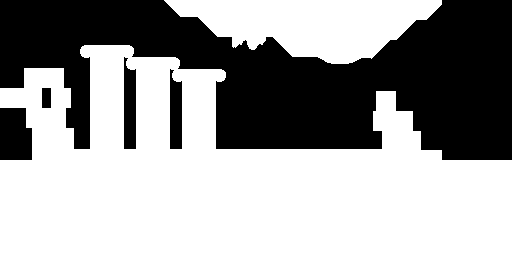
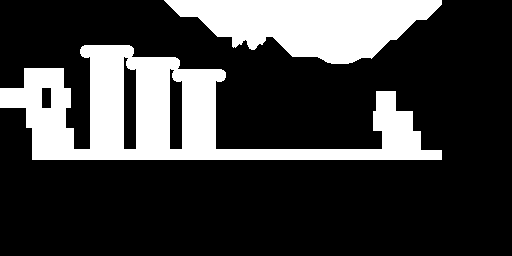
Surrender! + explosion + more things
More things:
- First door reworked to match level style.
- The 1st and 2nd levels now have air in the bottom to not let diggers dig until bottom of mask.
- Added bottom quad to not let lemmings invade the UI.

diff --git a/Lemmings/02-Lemming/Lemming.cpp b/Lemmings/02-Lemming/Lemming.cpp
@@ -18,7 +18,7 @@ void Lemming::init(const glm::vec2 &initialPosition, ShaderProgram &shaderProgra
 	pending_state = NULL_STATE;
 	pending_floater = false;
 	sprite = Sprite::createSprite(glm::ivec2(16, 16), glm::vec2(0.1, 16.0f / SPRITE_HEIGHT), lemmingTexture, &shaderProgram);
-	sprite->setNumberAnimations(12);
+	sprite->setNumberAnimations(14);
 	
 		sprite->setAnimationSpeed(LemmingAnims::WALKING_RIGHT, 12);
 		for(int i=0; i<8; i++)
@@ -71,6 +71,16 @@ void Lemming::init(const glm::vec2 &initialPosition, ShaderProgram &shaderProgra
 		sprite->setAnimationSpeed(LemmingAnims::SAFE, 12);
 		for (int i = 0; i<8; i++)
 			sprite->addKeyframe(LemmingAnims::SAFE, glm::vec2(float(i) / 10, 160.0f / SPRITE_HEIGHT));
+
+		sprite->setAnimationSpeed(LemmingAnims::SURRENDER, 12);
+		for (int i = 0; i<8; i++)
+			sprite->addKeyframe(LemmingAnims::SURRENDER, glm::vec2(float(i) / 10, 176.0f / SPRITE_HEIGHT));
+		for (int i = 0; i<8; i++)
+			sprite->addKeyframe(LemmingAnims::SURRENDER, glm::vec2(float(i) / 10, 192.0f / SPRITE_HEIGHT));
+
+		sprite->setAnimationSpeed(LemmingAnims::EXPLOSION, 12);
+		for (int i = 0; i<8; i++)
+			sprite->addKeyframe(LemmingAnims::EXPLOSION, glm::vec2(float(i) / 10, 112.0f / SPRITE_HEIGHT));
 
 
 		
@@ -135,7 +145,12 @@ void Lemming::update(int deltaTime, int offset, vector<glm::vec2> newColliders)
 		break;
 
 	case WALKING_LEFT_STATE:
-		if (pending_state == DIGGER_LEFT_STATE) {
+		if (pending_state == SURRENDER_STATE) {
+			sprite->changeAnimation(LemmingAnims::SURRENDER);
+			state = pending_state;
+			pending_state = NULL_STATE;
+		}
+		else if (pending_state == DIGGER_LEFT_STATE) {
 			sprite->changeAnimation(LemmingAnims::DIGGING);
 			state = pending_state;
 			pending_state = NULL_STATE;
@@ -153,7 +168,12 @@ void Lemming::update(int deltaTime, int offset, vector<glm::vec2> newColliders)
 		break;
 
 	case WALKING_RIGHT_STATE:
-		if (pending_state == DIGGER_RIGHT_STATE) {
+		if (pending_state == SURRENDER_STATE) {
+			sprite->changeAnimation(LemmingAnims::SURRENDER);
+			state = pending_state;
+			pending_state = NULL_STATE;
+		}
+		else if (pending_state == DIGGER_RIGHT_STATE) {
 			sprite->changeAnimation(LemmingAnims::DIGGING);
 			state = pending_state;
 			pending_state = NULL_STATE;
@@ -169,7 +189,18 @@ void Lemming::update(int deltaTime, int offset, vector<glm::vec2> newColliders)
 			else _walk(LemmingAnims::FALLING_RIGHT, LemmingState::FALLING_RIGHT_STATE);
 		}
 		break;
-
+	case SURRENDER_STATE:
+		if (sprite->keyFrame() == 15) {
+			sprite->changeAnimation(LemmingAnims::EXPLOSION);
+			_explote();
+			state = EXPLOSION_STATE;
+		}
+		break;
+	case EXPLOSION_STATE:
+		if (sprite->keyFrame() == 7) {
+			state = DEAD_STATE;
+		}
+		break;
 	case FALL_DIE_STATE:
 		if (sprite->keyFrame() == 15) {
 			state = DEAD_STATE;
@@ -252,7 +283,7 @@ void Lemming::lemmingArrived()
 
 Lemming::LemmingState Lemming::getStateFromSkill(LemmingSkill skill) 
 {
-
+	if (skill == SURREND) return SURRENDER_STATE;
 	if (isGoingLeft()) {
 		if (skill == BLOCKER) return BLOCKER_LEFT_STATE;
 		if (skill == DIGGER) return DIGGER_LEFT_STATE;
@@ -358,6 +389,27 @@ void Lemming::_fall(LemmingAnims walkAnimation, LemmingState walkState)
 	}
 	else {
 		sprite->position() += glm::vec2(0, fall);
+	}
+}
+
+void Lemming::_explote()
+{
+	int posX, posY;
+
+	posX = sprite->position().x + lem_offset + 7;
+	posY = sprite->position().y + 12;
+	int r = 9;
+	int dx;
+	int dy;
+	for (int y = max(0, posY - r); y <= min(mask->height() - 1, posY + r); y++) {
+		for (int x = max(0, posX - r); x <= min(mask->width() - 1, posX + r); x++) {
+			dx = posX - x; // horizontal offset
+			dy = posY - y; // vertical offset
+			if ((dx*dx + dy * dy) <= (r*r))
+			{
+				mask->setPixel(x, y, 0);
+			}
+		}
 	}
 }
 

diff --git a/Lemmings/02-Lemming/Scene.cpp b/Lemmings/02-Lemming/Scene.cpp
@@ -38,8 +38,10 @@ void Scene::init()
 	maskTexture.setMinFilter(GL_NEAREST);
 	maskTexture.setMagFilter(GL_NEAREST);
 
+	maskTexture2 = &maskTexture;
 
 	quad = Quad::createQuad(-20.f, 0.f, 20.f, float(CAMERA_HEIGHT + 40), program);
+	quadui = Quad::createQuad(0.f, 0.f, float(CAMERA_WIDTH), 41.f, program);
 
 	projection = glm::ortho(-20.f, float(CAMERA_WIDTH + 20), float(CAMERA_HEIGHT + 40), 0.f);
 	currentTime = 0.0f;
@@ -73,7 +75,7 @@ void Scene::update(int deltaTime)
 	deltaTime = considerSceneSpeed(deltaTime);
 	currentTime += deltaTime;
 	Level level = levels[currentLevel];
-
+	cout << int(currentTime / 100) << endl;
 	updateColliders();
 
 	// Spawn lemmings
@@ -82,7 +84,10 @@ void Scene::update(int deltaTime)
 	// Update lemmings
 	for (int i = 0; i < spawnedLemmings; ++i) {
 		if (!lemmings[i]) continue;
-			
+		if (int(currentTime / 100) == 100) {
+			if (!lemmings[i]->setSkill(Lemming::LemmingSkill::SURREND))
+				continue; // TESTING
+		}
 		lemmings[i]->update(deltaTime, int(level.offset), colliders);
 		if (lemmings[i]->isDead()) removeLemming(i);
 		else if (lemmings[i]->isSafe()) {
@@ -109,6 +114,14 @@ void Scene::render()
 
 	glm::mat4 modelview;
 
+	simpleTexProgram.use();
+	simpleTexProgram.setUniformMatrix4f("projection", projection);
+	simpleTexProgram.setUniform4f("color", 1.0f, 1.0f, 1.0f, 1.0f);
+	modelview = glm::mat4(1.0f);
+	simpleTexProgram.setUniformMatrix4f("modelview", modelview);
+	spawnDoor->render();
+	door->render();
+
 	maskedTexProgram.use();
 	maskedTexProgram.setUniformMatrix4f("projection", projection);
 	maskedTexProgram.setUniform4f("color", 1.0f, 1.0f, 1.0f, 1.0f);
@@ -122,13 +135,23 @@ void Scene::render()
 	modelview = glm::mat4(1.0f);
 	simpleTexProgram.setUniformMatrix4f("modelview", modelview);
 
-	spawnDoor->render();
-	door->render();
-
 	for (int i = 0; i < spawnedLemmings; ++i) {
 		if (lemmings[i]) lemmings[i]->render();
 	}
 
+	program.use();
+	program.setUniformMatrix4f("projection", projection);
+	program.setUniform4f("color", 0.f, 0.f, 0.f, 1.0f);
+
+	modelview = glm::translate(glm::mat4(1.0f), glm::vec3(0.f, float(CAMERA_HEIGHT - 1), 0.f));
+	program.setUniformMatrix4f("modelview", modelview);
+	quadui->render();
+
+	simpleTexProgram.use();
+	simpleTexProgram.setUniformMatrix4f("projection", projection);
+	simpleTexProgram.setUniform4f("color", 1.0f, 1.0f, 1.0f, 1.0f);
+	modelview = glm::mat4(1.0f);
+	simpleTexProgram.setUniformMatrix4f("modelview", modelview);
 	cursor->render();
 
 	program.use();
@@ -203,30 +226,6 @@ void Scene::moveMap(bool right)
 		}
 	}
 }
-
-//
-/* ENS HO GUARDEM PER QUAN FEM LES EXPLOSIONS DELS LEMMINGS QUAN FEM SURRENDER*/
-//
-/*void Scene::eraseMask(int mouseX, int mouseY)
-{
-	int posX, posY;
-
-	posX = mouseX / 3 + 120;
-	posY = mouseY / 3;
-	int r = 10;
-	int dx;
-	int dy;
-	for (int y = max(0, posY - r); y <= min(maskTexture.height() - 1, posY + r); y++) {
-		for (int x = max(0, posX - r); x <= min(maskTexture.width() - 1, posX + r); x++) {
-			dx = posX - x; // horizontal offset
-			dy = posY - y; // vertical offset
-			if ((dx*dx + dy * dy) <= (r*r))
-			{
-				maskTexture.setPixel(x, y, 0);
-			}
-		}
-	}
-}*/
 
 void Scene::initShaders()
 {
@@ -318,7 +317,7 @@ void Scene::initLevels()
 	firstLevel.lemmingsToSecure = 1;
 	firstLevel.availableTime = 5 * 60;
 	firstLevel.spawnPosition = glm::vec2(90, 30); // Correct
-	firstLevel.savePosition = glm::vec2(216, 85); // Correct
+	firstLevel.savePosition = glm::vec2(216, 84); // Correct
 	firstLevel.colorTextureFile = "images/fun1.png";
 	firstLevel.maskTextureFile = "images/fun1_mask.png";
 	firstLevel.offset = 120.f;

diff --git a/Lemmings/02-Lemming/Lemming.h b/Lemmings/02-Lemming/Lemming.h
@@ -15,14 +15,14 @@ class Lemming
 public:
 	enum LemmingSkill 
 	{
-		BLOCKER, DIGGER, FLOATER
+		BLOCKER, DIGGER, FLOATER, SURREND
 	};
 
 	enum LemmingState
 	{
 		NULL_STATE, WALKING_LEFT_STATE, WALKING_RIGHT_STATE, FALLING_LEFT_STATE, FALLING_RIGHT_STATE, FALL_DIE_STATE,
 		BLOCKER_RIGHT_STATE, BLOCKER_LEFT_STATE, DIGGER_RIGHT_STATE, DIGGER_LEFT_STATE, FLOATER_RIGHT_STATE, FLOATER_LEFT_STATE,
-		DEAD_STATE, ARRIVE_STATE, SAFE_STATE
+		DEAD_STATE, ARRIVE_STATE, SAFE_STATE, SURRENDER_STATE, EXPLOSION_STATE
 	};
 
 public:
@@ -46,7 +46,7 @@ public:
 	void lemmingArrived();
 	
 private:
-	const float SPRITE_HEIGHT = 176.0f;
+	const float SPRITE_HEIGHT = 208.0f;
 
 	const float GRAVITY = 0.05f;
 	const float MAXIMUM_FALL_SPEED = 3.0f;
@@ -66,7 +66,7 @@ private:
 
 	enum LemmingAnims
 	{
-		WALKING_LEFT, WALKING_RIGHT, FALLING_LEFT, FALLING_RIGHT, DIGGING, FLOATER_INI_RIGHT, FLOATER_INI_LEFT, FLOATER_RIGHT, FLOATER_LEFT, FALL_DIE, BLOCKER_ANIM, SAFE
+		WALKING_LEFT, WALKING_RIGHT, FALLING_LEFT, FALLING_RIGHT, DIGGING, FLOATER_INI_RIGHT, FLOATER_INI_LEFT, FLOATER_RIGHT, FLOATER_LEFT, FALL_DIE, BLOCKER_ANIM, SAFE, SURRENDER, EXPLOSION
 	};
 
 private:
@@ -75,6 +75,7 @@ private:
 	void _walk(LemmingAnims fallAnimation, LemmingState fallState);
 	void _float(LemmingAnims walkAnimation, LemmingState walkState);
 	void _fall(LemmingAnims walkAnimation, LemmingState walkState);
+	void _explote();
 
 	int collisionAny(int maxFall);
 	int collisionFloor(int maxFall);

diff --git a/Lemmings/02-Lemming/Scene.h b/Lemmings/02-Lemming/Scene.h
@@ -61,6 +61,7 @@ private:
 
 private:
 	Texture colorTexture;
+	VariableTexture *maskTexture2;
 	MaskedTexturedQuad *map;
 	ShaderProgram simpleTexProgram, maskedTexProgram;
 	ShaderProgramQuad program;
@@ -110,6 +111,7 @@ private:
 	SceneSpeed sceneSpeed;
 
 	Quad *quad;
+	Quad *quadui;
 };
 
 

diff --git a/Lemmings/02-Lemming/cursor.h b/Lemmings/02-Lemming/cursor.h
@@ -25,7 +25,7 @@ public:
 	};
 
 private:
-	const float SPRITE_HEIGHT = 176.0f;
+	const float SPRITE_HEIGHT = 208.0f;
 
 	Texture spritesheet;
 	Sprite *sprite;
